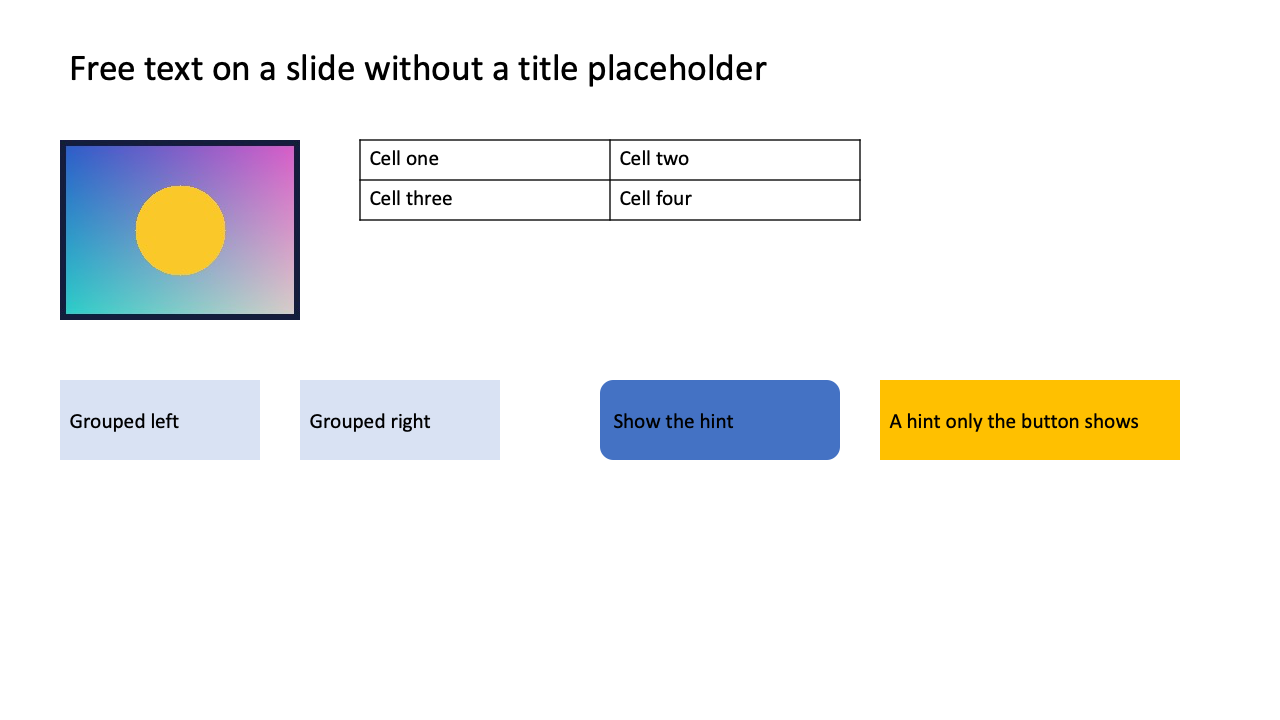
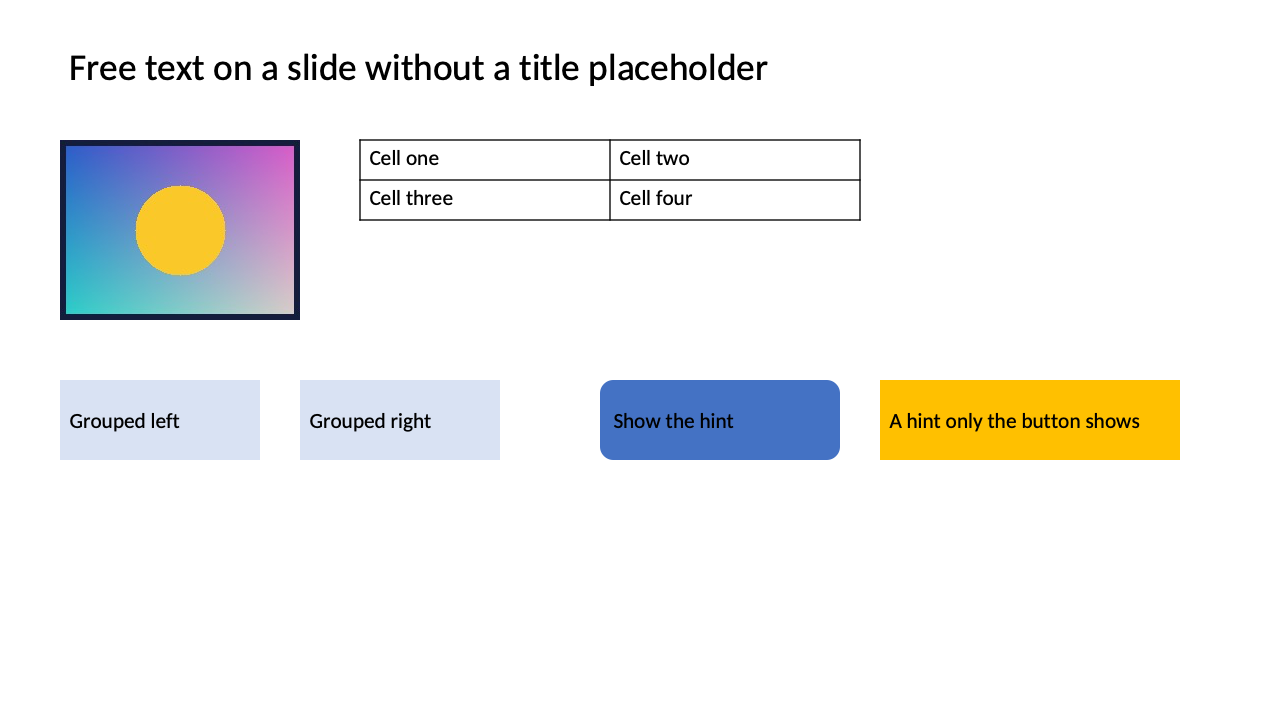
Content deck: reference drawn with Carlito; pptxref checks the fonts
The image comparison of the content deck failed on the Windows runner
(slide 2: SSIM 0.948, threshold 0.95; 0.954 on the Mac). The cause was the
reference: in that run PowerPoint had not found the bundled fonts and drew
the deck in Calibri, without any sign of it. The PDF of the run names
Calibri where every earlier run names Carlito, and each line of text was 1
to 4 px shorter than in deckfold's rendering.

pptxref.sh now waits until the system lists the bundled fonts before it
starts PowerPoint, and reads the font names from every exported PDF: a deck
that names a bundled font the PDF does not have, while the PDF has a font
the deck does not name, gets no reference.

New reference for the content deck, drawn with Carlito: SSIM 0.972 to 0.993
on its five slides.

diff --git a/docs/spikes/S4-powerpoint-reference.md b/docs/spikes/S4-powerpoint-reference.md
@@ -71,6 +71,17 @@ SSIM per slide after all three runs (Chrome on macOS, measured on 2026-11-07):
 
 The decks of the first run kept their values. The images show the editing view, so they cover the static drawing only; the transitions and Morph are checked by the browser tests in `tests/e2e/pptx.spec.mjs`.
 
+## A reference drawn with another font (2026-11-10)
+
+The first reference for the content deck compared at SSIM 0.954 on its list slide and failed on the Windows runner at 0.948. Every line of text was 1 to 4 px shorter in PowerPoint's image than in deckfold's. The cause was the reference: the PDF of that run names Calibri where the PDFs of every earlier run name Carlito (`pdffonts`). PowerPoint had not found the bundled fonts, replaced them without a word, and kerned Calibri. Why it did not find them in that run is not known; a second run minutes later found them.
+
+`pptxref.sh` now waits until the system lists the bundled fonts before it starts PowerPoint, and it reads the font names from every exported PDF. When the deck names a bundled font that the PDF does not have, while the PDF has a font the deck does not name, it writes no reference for that deck. With the right font the list slide compares at 0.972.
+
+Two things this showed about text:
+
+- PowerPoint does not kern Carlito. Carlito has its kerning in GPOS only (no `kern` table), and deckfold's unkerned text matches PowerPoint's to SSIM 0.997 on a text slide. Kerning deckfold's text with the GPOS pairs made 19 of 87 slides worse and was taken back.
+- PowerPoint does kern Calibri (the shorter lines of the wrong reference). deckfold measures and draws every font without kerning, so a deck in Calibri, converted on a machine that has Calibri, has lines up to 0.7 % longer than PowerPoint's. That is not measured against a reference yet.
+
 ## Still open
 
 - A comparison of the 3D shapes with WebGL in a browser with a GPU: the tests draw WebGL with SwiftShader.

diff --git a/CLAUDE.md b/CLAUDE.md
@@ -81,7 +81,7 @@ Background measurements on `file://` behaviour (Window Management API, blob URLs
 
 ## PowerPoint automation
 
-`scripts/pptxref/pptxref.sh` drives PowerPoint through AppleScript to make the reference images (see `fixtures/pptx/README.md` and `docs/spikes/S4-powerpoint-reference.md`). PowerPoint's sandbox shows modal "Grant Access" dialogs for files it has not opened before, and the maintainer has to confirm them; a folder grant does not stop them, and macOS blocks writing into PowerPoint's container. Tell the maintainer before every run, keep the fixed work folder `tests/.out/pptxref` with fixed file names, and do not query PowerPoint through AppleScript just to check its state (that starts it again). PowerPoint does not answer Apple events while a start dialog is open; close it first. Quit PowerPoint afterwards when no presentation is open.
+`scripts/pptxref/pptxref.sh` drives PowerPoint through AppleScript to make the reference images (see `fixtures/pptx/README.md` and `docs/spikes/S4-powerpoint-reference.md`). PowerPoint's sandbox shows modal "Grant Access" dialogs for files it has not opened before, and the maintainer has to confirm them; a folder grant does not stop them, and macOS blocks writing into PowerPoint's container. Tell the maintainer before every run, keep the fixed work folder `tests/.out/pptxref` with fixed file names, and do not query PowerPoint through AppleScript just to check its state (that starts it again). PowerPoint does not answer Apple events while a start dialog is open; close it first. The script checks the fonts in each exported PDF and writes no reference for a deck PowerPoint drew with a replaced font; when an image comparison is close to the threshold for a new deck, look at the fonts of its PDF (`pdffonts tests/.out/pptxref/<name>.pdf`) before looking for the cause in the renderer. Quit PowerPoint afterwards when no presentation is open.
 
 ## Keynote automation
 

diff --git a/fixtures/pptx/README.md b/fixtures/pptx/README.md
@@ -17,7 +17,7 @@ The tests prefer the PowerPoint-saved copy, because that is the XML PowerPoint i
 
 ## Making the reference
 
-1. Nothing to install: the script copies the bundled fonts it needs into `~/Library/Fonts` for the run and removes them again at the end. It quits PowerPoint before, because PowerPoint reads fonts when it starts.
+1. Nothing to install: the script copies the bundled fonts it needs into `~/Library/Fonts` for the run and removes them again at the end. It quits PowerPoint before, because PowerPoint reads fonts when it starts, and waits until the system lists the fonts. After the export it checks the fonts in the PDF: PowerPoint replaces a font it cannot find without saying so (Carlito by Calibri), and a deck drawn that way gets no reference.
 2. Close all open presentations in PowerPoint and dismiss any start dialogs (sign-in, what's new).
    PowerPoint's sandbox shows a "Grant Access" dialog for files it has not opened before. Granting the work folder in that dialog did not stop it in a test, so expect to confirm the dialogs during a run.
 3. Run `scripts/pptxref/pptxref.sh` (it works in `tests/.out/pptxref`, which git ignores) with the names of the decks whose source in `fixtures/pptx/src` changed, for example `scripts/pptxref/pptxref.sh basic`; `git status fixtures/pptx/src` shows them. Without arguments the script runs over every deck, which costs a round of access dialogs per deck and rewrites the metadata of every saved copy; avoid it.
